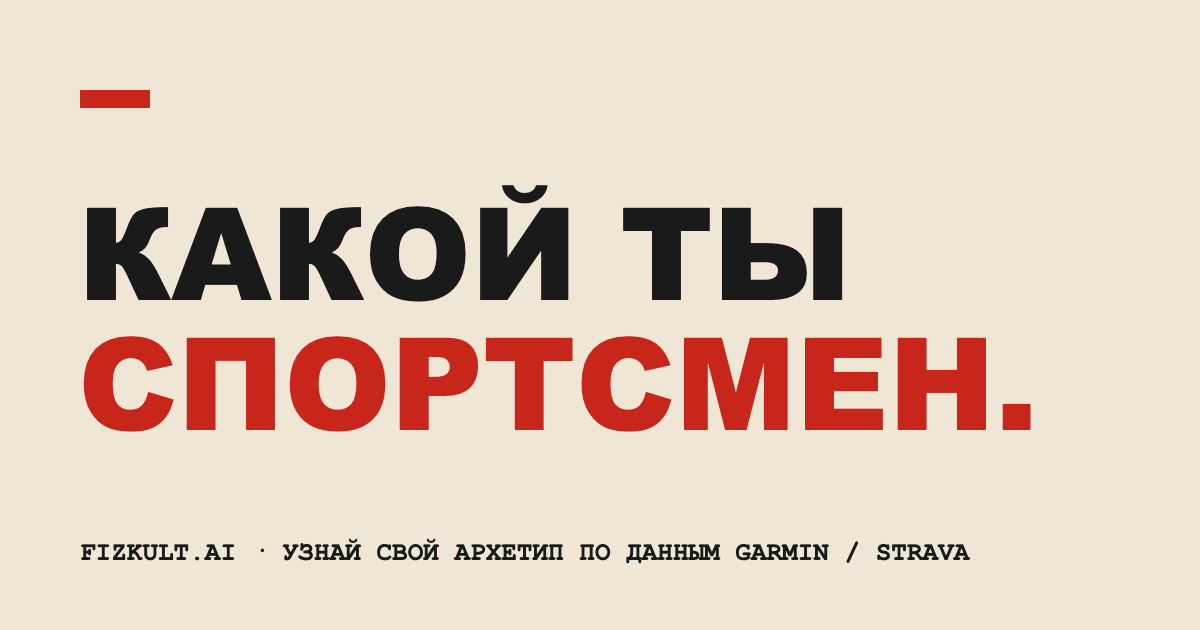
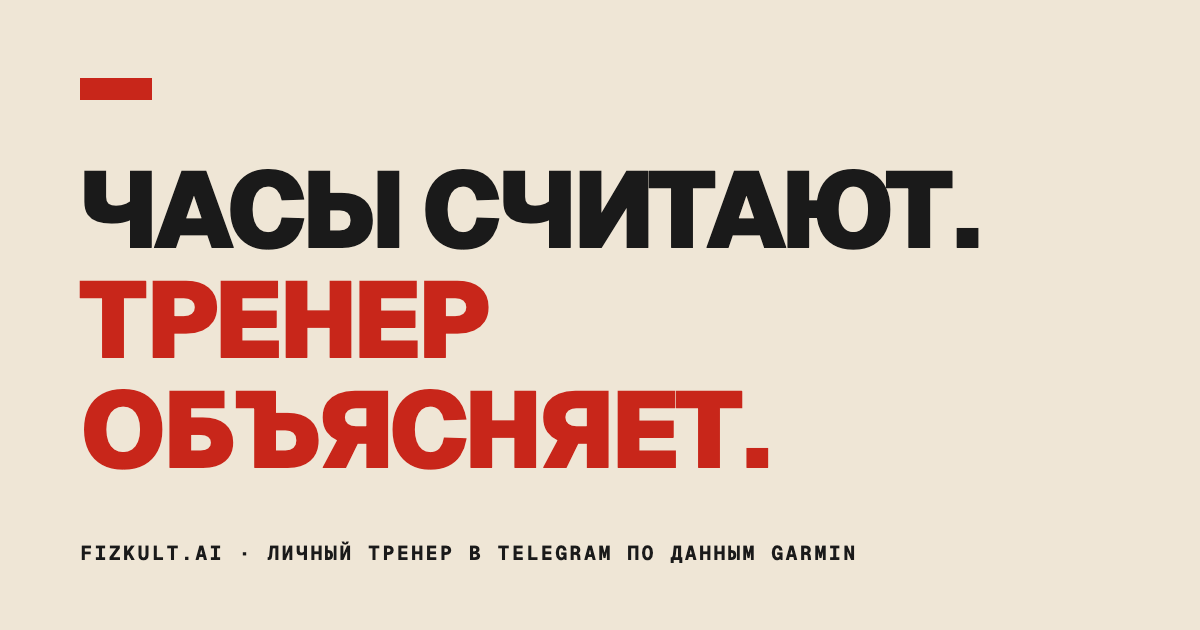
Карточка превью перерисована: убраны архетипы и Strava, заведена английская
Находка владельца 22.11.2026: по любой ссылке с fizkult.ai в превью
показывался баннер «КАКОЙ ТЫ СПОРТСМЕН · УЗНАЙ СВОЙ АРХЕТИП ПО ДАННЫМ
GARMIN / STRAVA». Сверка с кодом: архетипы отменены владельцем 10.08
(SPEC-PLAN-1, список «отменено целиком»), Strava провайдером не является
(ingest/providers.py::PROVIDER_DEFAULT_PRIORITY — garmin и zwift). Одна
картинка обещала две несуществующие вещи и стояла в og:image на 34
страницах.

Барьеры этого не ловят: они читают текст, а текст внутри PNG невидим и
для них, и для грепа. Поэтому чинится не перерисовкой, а домом — слова
карточек теперь живут в marketing-office/scripts/og/gen_og.py, PNG
производный (та же механика, что у карусели и у пака).

Сейчас: «ЧАСЫ СЧИТАЮТ. / ТРЕНЕР ОБЪЯСНЯЕТ.» и английский близнец.
Ни одна строка не обещает функции.

Тем же проходом закрыты ещё две дыры:
- все 17 английских страниц отдавали русскую карточку — заведена
  og-share-en.png, английские страницы переведены на неё;
- /privacy, /oferta, /en/privacy, /en/terms жили вообще без тегов og:,
  ссылка на них приходила голой строкой. Блоки заведены из их же title
  и description. whitepaper оставлен без карточки сознательно: он под
  noindex до сверки с кодом.

Сторожа разметки и парности прогнаны руками — зелёные.

Claude-Session: https://claude.ai/code/session_018irFH5Y6HamZxn7vC7fSpz

Changed region(s): [[0.0617, 0.2714, 0.8633, 0.754], [0.0617, 0.8444, 0.8017, 0.9048], [0.0617, 0.1206, 0.1233, 0.181]]

diff --git a/en/garmin/training-status.html b/en/garmin/training-status.html
@@ -17,14 +17,14 @@
 <meta property="og:title" content="Garmin training status: why &quot;Unproductive&quot; turns up in the middle of a steady block">
 <meta property="og:description" content="Three steady weeks, nothing wrong with how you feel — and the watch says Unproductive. From the manuals: what the status is built from, what feeds it, where it goes blind, and how to tell a drop in fitness from a drop in the measurement.">
 <meta property="og:url" content="https://fizkult.ai/en/garmin/training-status">
-<meta property="og:image" content="https://fizkult.ai/assets/og/og-share.png">
+<meta property="og:image" content="https://fizkult.ai/assets/og/og-share-en.png">
 <meta property="og:image:width" content="1200">
 <meta property="og:image:height" content="630">
 <meta property="og:image:alt" content="Fizkult — a personal coach in Telegram">
 <meta name="twitter:card" content="summary_large_image">
 <meta name="twitter:title" content="Garmin training status: why &quot;Unproductive&quot; turns up in the middle of a steady block">
 <meta name="twitter:description" content="A workout that produced no VO2 max. measurement leaves the fitness estimate untouched. All nine levels from the manual, and seven steps to make the label describe you rather than the conditions you measured in.">
-<meta name="twitter:image" content="https://fizkult.ai/assets/og/og-share.png">
+<meta name="twitter:image" content="https://fizkult.ai/assets/og/og-share-en.png">
 <link rel="preconnect" href="https://fonts.googleapis.com">
 <link rel="preconnect" href="https://fonts.gstatic.com" crossorigin>
 <link href="https://fonts.googleapis.com/css2?family=Geist:wght@400;600;700;900&family=Geist+Mono:wght@400;500&display=swap" rel="stylesheet">
@@ -92,7 +92,7 @@
       "datePublished": "2026-11-22",
       "dateModified": "2026-11-22",
       "mainEntityOfPage": "https://fizkult.ai/en/garmin/training-status",
-      "image": "https://fizkult.ai/assets/og/og-share.png",
+      "image": "https://fizkult.ai/assets/og/og-share-en.png",
       "author": { "@type": "Organization", "name": "Fizkult", "url": "https://fizkult.ai/en/" },
       "publisher": { "@type": "Organization", "name": "Fizkult", "url": "https://fizkult.ai/en/" },
       "about": ["Training Status", "Garmin", "VO2 max.", "HRV Status", "Unproductive", "Strained"],

diff --git a/en/garmin/body-battery.html b/en/garmin/body-battery.html
@@ -17,14 +17,14 @@
 <meta property="og:title" content="Garmin Body Battery: what goes into the number, and why it's low in the morning">
 <meta property="og:description" content="The screen says 28 this morning, and the number doesn't tell you what happened. Four inputs, a scale from 5 to 100, a black-box formula in between — and five steps to find the cause yourself.">
 <meta property="og:url" content="https://fizkult.ai/en/garmin/body-battery">
-<meta property="og:image" content="https://fizkult.ai/assets/og/og-share.png">
+<meta property="og:image" content="https://fizkult.ai/assets/og/og-share-en.png">
 <meta property="og:image:width" content="1200">
 <meta property="og:image:height" content="630">
 <meta property="og:image:alt" content="Fizkult — a personal coach in Telegram">
 <meta name="twitter:card" content="summary_large_image">
 <meta name="twitter:title" content="Garmin Body Battery: what goes into the number, and why it's low in the morning">
 <meta name="twitter:description" content="Four signals in one number, and the screen won't say which one dropped. What Garmin publishes about the 5–100 scale, what it doesn't, and how to find the cause of a low reading in the morning yourself.">
-<meta name="twitter:image" content="https://fizkult.ai/assets/og/og-share.png">
+<meta name="twitter:image" content="https://fizkult.ai/assets/og/og-share-en.png">
 <link rel="preconnect" href="https://fonts.googleapis.com">
 <link rel="preconnect" href="https://fonts.gstatic.com" crossorigin>
 <link href="https://fonts.googleapis.com/css2?family=Geist:wght@400;600;700;900&family=Geist+Mono:wght@400;500&display=swap" rel="stylesheet">
@@ -92,7 +92,7 @@
       "datePublished": "2026-11-21",
       "dateModified": "2026-11-21",
       "mainEntityOfPage": "https://fizkult.ai/en/garmin/body-battery",
-      "image": "https://fizkult.ai/assets/og/og-share.png",
+      "image": "https://fizkult.ai/assets/og/og-share-en.png",
       "author": { "@type": "Organization", "name": "Fizkult", "url": "https://fizkult.ai/en/" },
       "publisher": { "@type": "Organization", "name": "Fizkult", "url": "https://fizkult.ai/en/" },
       "about": ["Body Battery", "Garmin", "Training Readiness", "Heart rate variability", "Stress level", "Recovery"],

diff --git a/en/garmin/training-effect.html b/en/garmin/training-effect.html
@@ -17,14 +17,14 @@
 <meta property="og:title" content="Training effect: why your hardest session only maintains">
 <meta property="og:description" content="Training effect is a calculation, not a measurement. In Firstbeat's description of the method its reference point is the maximum heart rate in your profile — 220 minus your age until you change it. Where the score goes when that number is wrong, and what to check in the watch.">
 <meta property="og:url" content="https://fizkult.ai/en/garmin/training-effect">
-<meta property="og:image" content="https://fizkult.ai/assets/og/og-share.png">
+<meta property="og:image" content="https://fizkult.ai/assets/og/og-share-en.png">
 <meta property="og:image:width" content="1200">
 <meta property="og:image:height" content="630">
 <meta property="og:image:alt" content="Fizkult — a personal coach in Telegram">
 <meta name="twitter:card" content="summary_large_image">
 <meta name="twitter:title" content="Training effect: why your hardest session only maintains">
 <meta name="twitter:description" content="A wrong maximum heart rate shifts every score the same way, session after session. From the Firstbeat papers and the fēnix 8 manual: how the number is built and what to check.">
-<meta name="twitter:image" content="https://fizkult.ai/assets/og/og-share.png">
+<meta name="twitter:image" content="https://fizkult.ai/assets/og/og-share-en.png">
 <link rel="preconnect" href="https://fonts.googleapis.com">
 <link rel="preconnect" href="https://fonts.gstatic.com" crossorigin>
 <link href="https://fonts.googleapis.com/css2?family=Geist:wght@400;600;700;900&family=Geist+Mono:wght@400;500&display=swap" rel="stylesheet">
@@ -92,7 +92,7 @@
       "datePublished": "2026-11-22",
       "dateModified": "2026-11-22",
       "mainEntityOfPage": "https://fizkult.ai/en/garmin/training-effect",
-      "image": "https://fizkult.ai/assets/og/og-share.png",
+      "image": "https://fizkult.ai/assets/og/og-share-en.png",
       "author": { "@type": "Organization", "name": "Fizkult", "url": "https://fizkult.ai/" },
       "publisher": { "@type": "Organization", "name": "Fizkult", "url": "https://fizkult.ai/" },
       "about": ["Training effect", "Maximum heart rate", "Garmin", "Firstbeat", "EPOC"],

diff --git a/en/garmin/vo2max.html b/en/garmin/vo2max.html
@@ -17,14 +17,14 @@
 <meta property="og:title" content="VO2 max. on Garmin watches: how accurate it is, and why it reads low for trained runners">
 <meta property="og:description" content="The watch pulls everyone toward the middle: it flatters the weaker and shortchanges the strong. On the rating table that is one or two rungs. Built from primary sources and two lab validations.">
 <meta property="og:url" content="https://fizkult.ai/en/garmin/vo2max">
-<meta property="og:image" content="https://fizkult.ai/assets/og/og-share.png">
+<meta property="og:image" content="https://fizkult.ai/assets/og/og-share-en.png">
 <meta property="og:image:width" content="1200">
 <meta property="og:image:height" content="630">
 <meta property="og:image:alt" content="Fizkult — a personal coach in Telegram">
 <meta name="twitter:card" content="summary_large_image">
 <meta name="twitter:title" content="VO2 max. on Garmin watches: how accurate it is, and why it reads low for trained runners">
 <meta name="twitter:description" content="The estimate's error is not flat across the scale — it depends on how strong you are. Two lab validations, and what to do with a number like that.">
-<meta name="twitter:image" content="https://fizkult.ai/assets/og/og-share.png">
+<meta name="twitter:image" content="https://fizkult.ai/assets/og/og-share-en.png">
 <link rel="preconnect" href="https://fonts.googleapis.com">
 <link rel="preconnect" href="https://fonts.gstatic.com" crossorigin>
 <link href="https://fonts.googleapis.com/css2?family=Geist:wght@400;600;700;900&family=Geist+Mono:wght@400;500&display=swap" rel="stylesheet">
@@ -92,7 +92,7 @@
       "datePublished": "2026-11-22",
       "dateModified": "2026-11-22",
       "mainEntityOfPage": "https://fizkult.ai/en/garmin/vo2max",
-      "image": "https://fizkult.ai/assets/og/og-share.png",
+      "image": "https://fizkult.ai/assets/og/og-share-en.png",
       "author": { "@type": "Organization", "name": "Fizkult", "url": "https://fizkult.ai/en/" },
       "publisher": { "@type": "Organization", "name": "Fizkult", "url": "https://fizkult.ai/en/" },
       "about": ["VO2 max.", "Garmin", "Firstbeat", "Cooper Institute", "Fitness level", "Running"],

diff --git a/en/garmin/recovery-time.html b/en/garmin/recovery-time.html
@@ -16,14 +16,14 @@
 <meta property="og:title" content="Garmin recovery time: 52 hours is until the next hard session, and the number will move">
 <meta property="og:description" content="The number at the finish is a first estimate, not a verdict: the watch recalculates it all day. The definition says nothing about easy work. What Garmin states, what it never published, what to do tonight.">
 <meta property="og:url" content="https://fizkult.ai/en/garmin/recovery-time">
-<meta property="og:image" content="https://fizkult.ai/assets/og/og-share.png">
+<meta property="og:image" content="https://fizkult.ai/assets/og/og-share-en.png">
 <meta property="og:image:width" content="1200">
 <meta property="og:image:height" content="630">
 <meta property="og:image:alt" content="Fizkult — a personal coach in Telegram">
 <meta name="twitter:card" content="summary_large_image">
 <meta name="twitter:title" content="Garmin recovery time: 52 hours is until the next hard session, and the number will move">
 <meta name="twitter:description" content="52 hours counts down to your next hard workout, not to any run at all. The number is recalculated all day. The hour scale was never published.">
-<meta name="twitter:image" content="https://fizkult.ai/assets/og/og-share.png">
+<meta name="twitter:image" content="https://fizkult.ai/assets/og/og-share-en.png">
 <link rel="preconnect" href="https://fonts.googleapis.com">
 <link rel="preconnect" href="https://fonts.gstatic.com" crossorigin>
 <link href="https://fonts.googleapis.com/css2?family=Geist:wght@400;600;700;900&family=Geist+Mono:wght@400;500&display=swap" rel="stylesheet">
@@ -91,7 +91,7 @@
       "datePublished": "2026-11-22",
       "dateModified": "2026-11-22",
       "mainEntityOfPage": "https://fizkult.ai/en/garmin/recovery-time",
-      "image": "https://fizkult.ai/assets/og/og-share.png",
+      "image": "https://fizkult.ai/assets/og/og-share-en.png",
       "author": { "@type": "Organization", "name": "Fizkult", "url": "https://fizkult.ai/" },
       "publisher": { "@type": "Organization", "name": "Fizkult", "url": "https://fizkult.ai/" },
       "about": ["Recovery time", "Garmin", "VO2 max", "Post-exercise recovery"],

diff --git a/en/garmin/stress.html b/en/garmin/stress.html
@@ -17,14 +17,14 @@
 <meta property="og:title" content="Garmin stress level: what the number means, and why it vanishes during hard training">
 <meta property="og:description" content="The number most people scroll past, by our reading, quietly feeds the two they do look at. And while you're too active, Garmin doesn't record stress at all — the manual says so outright.">
 <meta property="og:url" content="https://fizkult.ai/en/garmin/stress">
-<meta property="og:image" content="https://fizkult.ai/assets/og/og-share.png">
+<meta property="og:image" content="https://fizkult.ai/assets/og/og-share-en.png">
 <meta property="og:image:width" content="1200">
 <meta property="og:image:height" content="630">
 <meta property="og:image:alt" content="Fizkult — a personal coach in Telegram">
 <meta name="twitter:card" content="summary_large_image">
 <meta name="twitter:title" content="Garmin stress level: what the number means, and why it vanishes during hard training">
 <meta name="twitter:description" content="The 0–100 scale per the manual, the gap in the daily graph during hard work, and three different metrics hiding under one word.">
-<meta name="twitter:image" content="https://fizkult.ai/assets/og/og-share.png">
+<meta name="twitter:image" content="https://fizkult.ai/assets/og/og-share-en.png">
 <link rel="preconnect" href="https://fonts.googleapis.com">
 <link rel="preconnect" href="https://fonts.gstatic.com" crossorigin>
 <link href="https://fonts.googleapis.com/css2?family=Geist:wght@400;600;700;900&family=Geist+Mono:wght@400;500&display=swap" rel="stylesheet">
@@ -92,7 +92,7 @@
       "datePublished": "2026-11-21",
       "dateModified": "2026-11-21",
       "mainEntityOfPage": "https://fizkult.ai/en/garmin/stress",
-      "image": "https://fizkult.ai/assets/og/og-share.png",
+      "image": "https://fizkult.ai/assets/og/og-share-en.png",
       "author": { "@type": "Organization", "name": "Fizkult", "url": "https://fizkult.ai/en/" },
       "publisher": { "@type": "Organization", "name": "Fizkult", "url": "https://fizkult.ai/en/" },
       "about": ["Stress level", "Heart rate variability", "Garmin", "HRV Status", "Training Readiness", "Body Battery"],

diff --git a/en/garmin/sleep-score.html b/en/garmin/sleep-score.html
@@ -17,14 +17,14 @@
 <meta property="og:title" content="Garmin sleep score and sleep efficiency: how the two numbers differ">
 <meta property="og:description" content="The sleep score is a composite built from three parts. Sleep efficiency is a plain share of time in bed spent asleep. Why they disagree, and which one to read every day. Built from primary sources.">
 <meta property="og:url" content="https://fizkult.ai/en/garmin/sleep-score">
-<meta property="og:image" content="https://fizkult.ai/assets/og/og-share.png">
+<meta property="og:image" content="https://fizkult.ai/assets/og/og-share-en.png">
 <meta property="og:image:width" content="1200">
 <meta property="og:image:height" content="630">
 <meta property="og:image:alt" content="Fizkult — a personal coach in Telegram">
 <meta name="twitter:card" content="summary_large_image">
 <meta name="twitter:title" content="Garmin sleep score and sleep efficiency: how the two numbers differ">
 <meta name="twitter:description" content="A score for the night and a share of time in bed measure different things — which is why they disagree and why both are right. Built from primary sources.">
-<meta name="twitter:image" content="https://fizkult.ai/assets/og/og-share.png">
+<meta name="twitter:image" content="https://fizkult.ai/assets/og/og-share-en.png">
 <link rel="preconnect" href="https://fonts.googleapis.com">
 <link rel="preconnect" href="https://fonts.gstatic.com" crossorigin>
 <link href="https://fonts.googleapis.com/css2?family=Geist:wght@400;600;700;900&family=Geist+Mono:wght@400;500&display=swap" rel="stylesheet">
@@ -92,7 +92,7 @@
       "datePublished": "2026-10-30",
       "dateModified": "2026-11-22",
       "mainEntityOfPage": "https://fizkult.ai/en/garmin/sleep-score",
-      "image": "https://fizkult.ai/assets/og/og-share.png",
+      "image": "https://fizkult.ai/assets/og/og-share-en.png",
       "author": { "@type": "Organization", "name": "Fizkult", "url": "https://fizkult.ai/" },
       "publisher": { "@type": "Organization", "name": "Fizkult", "url": "https://fizkult.ai/" },
       "about": ["Sleep score", "Sleep efficiency", "Sleep", "Garmin", "Firstbeat", "Polysomnography"],

diff --git a/en/garmin/training-readiness.html b/en/garmin/training-readiness.html
@@ -17,14 +17,14 @@
 <meta property="og:title" content="Training Readiness on Garmin watches: seven inputs in one number, and what to do when that number is low">
 <meta property="og:description" content="Seven inputs fold into one number. The inputs are published, the weights are not, and some of the inputs have glances of their own.">
 <meta property="og:url" content="https://fizkult.ai/en/garmin/training-readiness">
-<meta property="og:image" content="https://fizkult.ai/assets/og/og-share.png">
+<meta property="og:image" content="https://fizkult.ai/assets/og/og-share-en.png">
 <meta property="og:image:width" content="1200">
 <meta property="og:image:height" content="630">
 <meta property="og:image:alt" content="Fizkult — a personal coach in Telegram">
 <meta name="twitter:card" content="summary_large_image">
 <meta name="twitter:title" content="Training Readiness on Garmin watches: seven inputs in one number, and what to do when that number is low">
 <meta name="twitter:description" content="Seven inputs, five zones, one number. What a 41 means and what it changes about today's session.">
-<meta name="twitter:image" content="https://fizkult.ai/assets/og/og-share.png">
+<meta name="twitter:image" content="https://fizkult.ai/assets/og/og-share-en.png">
 <link rel="preconnect" href="https://fonts.googleapis.com">
 <link rel="preconnect" href="https://fonts.gstatic.com" crossorigin>
 <link href="https://fonts.googleapis.com/css2?family=Geist:wght@400;600;700;900&family=Geist+Mono:wght@400;500&display=swap" rel="stylesheet">
@@ -92,7 +92,7 @@
       "datePublished": "2026-11-21",
       "dateModified": "2026-11-21",
       "mainEntityOfPage": "https://fizkult.ai/en/garmin/training-readiness",
-      "image": "https://fizkult.ai/assets/og/og-share.png",
+      "image": "https://fizkult.ai/assets/og/og-share-en.png",
       "author": { "@type": "Organization", "name": "Fizkult", "url": "https://fizkult.ai/en/" },
       "publisher": { "@type": "Organization", "name": "Fizkult", "url": "https://fizkult.ai/en/" },
       "about": ["Training Readiness", "Garmin", "Recovery time", "Acute load", "Heart rate variability", "Body Battery"],

diff --git a/oferta.html b/oferta.html
@@ -9,6 +9,21 @@
 <link rel="alternate" hreflang="en" href="https://fizkult.ai/en/terms">
 <link rel="alternate" hreflang="x-default" href="https://fizkult.ai/oferta">
 <link rel="canonical" href="https://fizkult.ai/oferta">
+<meta property="og:type" content="website">
+<meta property="og:site_name" content="Физкульт">
+<meta property="og:locale" content="ru_RU">
+<meta property="og:locale:alternate" content="en_US">
+<meta property="og:title" content="Условия предоставления услуг, оплата и возврат — Физкульт">
+<meta property="og:description" content="Описание услуг сервиса Физкульт, цены, порядок заказа, оплаты, оказания услуг и возврата средств. Реквизиты и контакты.">
+<meta property="og:url" content="https://fizkult.ai/oferta">
+<meta property="og:image" content="https://fizkult.ai/assets/og/og-share.png">
+<meta property="og:image:width" content="1200">
+<meta property="og:image:height" content="630">
+<meta property="og:image:alt" content="Физкульт — личный тренер в Telegram">
+<meta name="twitter:card" content="summary_large_image">
+<meta name="twitter:title" content="Условия предоставления услуг, оплата и возврат — Физкульт">
+<meta name="twitter:description" content="Описание услуг сервиса Физкульт, цены, порядок заказа, оплаты, оказания услуг и возврата средств. Реквизиты и контакты.">
+<meta name="twitter:image" content="https://fizkult.ai/assets/og/og-share.png">
 <link rel="icon" href="assets/favicon/favicon-32.png">
 <link rel="preconnect" href="https://fonts.googleapis.com">
 <link rel="preconnect" href="https://fonts.gstatic.com" crossorigin>

diff --git a/privacy.html b/privacy.html
@@ -9,6 +9,21 @@
 <link rel="alternate" hreflang="en" href="https://fizkult.ai/en/privacy">
 <link rel="alternate" hreflang="x-default" href="https://fizkult.ai/privacy">
 <link rel="canonical" href="https://fizkult.ai/privacy">
+<meta property="og:type" content="website">
+<meta property="og:site_name" content="Физкульт">
+<meta property="og:locale" content="ru_RU">
+<meta property="og:locale:alternate" content="en_US">
+<meta property="og:title" content="Политика обработки персональных данных — Физкульт">
+<meta property="og:description" content="Политика обработки персональных данных сервиса Физкульт (fizkult.ai).">
+<meta property="og:url" content="https://fizkult.ai/privacy">
+<meta property="og:image" content="https://fizkult.ai/assets/og/og-share.png">
+<meta property="og:image:width" content="1200">
+<meta property="og:image:height" content="630">
+<meta property="og:image:alt" content="Физкульт — личный тренер в Telegram">
+<meta name="twitter:card" content="summary_large_image">
+<meta name="twitter:title" content="Политика обработки персональных данных — Физкульт">
+<meta name="twitter:description" content="Политика обработки персональных данных сервиса Физкульт (fizkult.ai).">
+<meta name="twitter:image" content="https://fizkult.ai/assets/og/og-share.png">
 <link rel="icon" href="assets/favicon/favicon-32.png">
 <link rel="preconnect" href="https://fonts.googleapis.com">
 <link rel="preconnect" href="https://fonts.gstatic.com" crossorigin>

diff --git a/en/pricing.html b/en/pricing.html
@@ -12,13 +12,13 @@
 <meta property="og:site_name" content="Fizkult">
 <meta property="og:locale" content="en_US">
 <meta property="og:locale:alternate" content="ru_RU">
-<meta property="og:image" content="https://fizkult.ai/assets/og/og-share.png">
+<meta property="og:image" content="https://fizkult.ai/assets/og/og-share-en.png">
 <meta property="og:image:width" content="1200">
 <meta property="og:image:height" content="630">
 <meta name="twitter:card" content="summary_large_image">
 <meta name="twitter:title" content="Fizkult pricing — what it costs and what actually arrives">
 <meta name="twitter:description" content="A free week of full Pro, then 299, 499 or 999 ₽ a month. What each level includes, with no fine print.">
-<meta name="twitter:image" content="https://fizkult.ai/assets/og/og-share.png">
+<meta name="twitter:image" content="https://fizkult.ai/assets/og/og-share-en.png">
 <link rel="alternate" hreflang="ru" href="https://fizkult.ai/tarify">
 <link rel="alternate" hreflang="en" href="https://fizkult.ai/en/pricing">
 <link rel="alternate" hreflang="x-default" href="https://fizkult.ai/tarify">
@@ -293,7 +293,7 @@
   "operatingSystem": "Telegram",
   "inLanguage": "en",
   "description": "A personal coach in Telegram for runners, cyclists and swimmers with a Garmin watch: it reads workouts, sleep and heart rate straight from the watch, writes first every morning and says what to do today. The first seven days are full Pro, free, with no card asked.",
-  "image": "https://fizkult.ai/assets/og/og-share.png",
+  "image": "https://fizkult.ai/assets/og/og-share-en.png",
   "offers": {
     "@type": "AggregateOffer",
     "priceCurrency": "RUB",

diff --git a/en/index.html b/en/index.html
@@ -12,14 +12,14 @@
 <meta property="og:site_name" content="Fizkult">
 <meta property="og:locale" content="en_US">
 <meta property="og:locale:alternate" content="ru_RU">
-<meta property="og:image" content="https://fizkult.ai/assets/og/og-share.png">
+<meta property="og:image" content="https://fizkult.ai/assets/og/og-share-en.png">
 <meta property="og:image:width" content="1200">
 <meta property="og:image:height" content="630">
 <meta property="og:image:alt" content="Fizkult — a personal coach in Telegram that reads your Garmin">
 <meta name="twitter:card" content="summary_large_image">
 <meta name="twitter:title" content="Your watch sees everything. Fizkult reads it and tells you what to do">
 <meta name="twitter:description" content="A personal coach in Telegram for people who run, ride and swim with a Garmin. Writes first every morning, remembers your history, breaks down your workouts. 7 days free.">
-<meta name="twitter:image" content="https://fizkult.ai/assets/og/og-share.png">
+<meta name="twitter:image" content="https://fizkult.ai/assets/og/og-share-en.png">
 <link rel="alternate" hreflang="ru" href="https://fizkult.ai/">
 <link rel="alternate" hreflang="en" href="https://fizkult.ai/en/">
 <link rel="alternate" hreflang="x-default" href="https://fizkult.ai/">
@@ -383,7 +383,7 @@
       "alternateName": "FIZKULT.AI",
       "url": "https://fizkult.ai/",
       "logo": "https://fizkult.ai/assets/favicon/favicon-512.png",
-      "image": "https://fizkult.ai/assets/og/og-share.png",
+      "image": "https://fizkult.ai/assets/og/og-share-en.png",
       "email": "hello@fizkult.ai",
       "foundingDate": "2026",
       "sameAs": [
